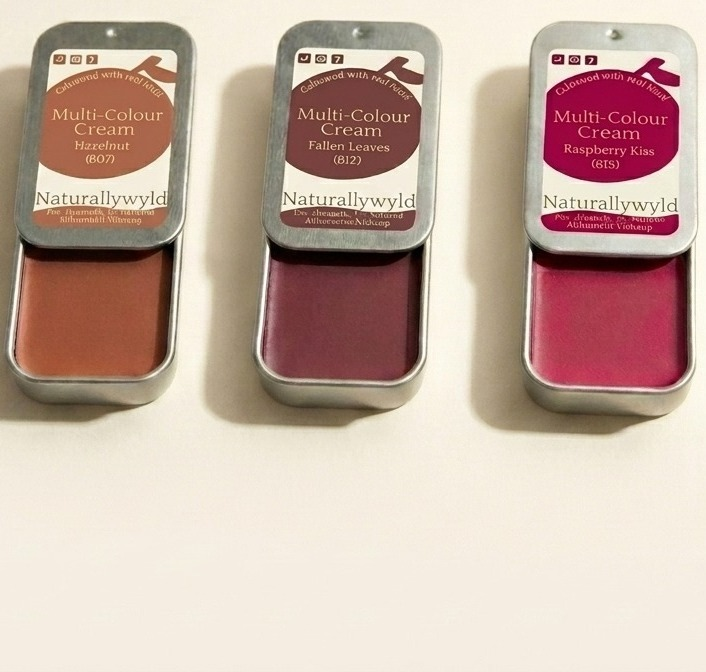
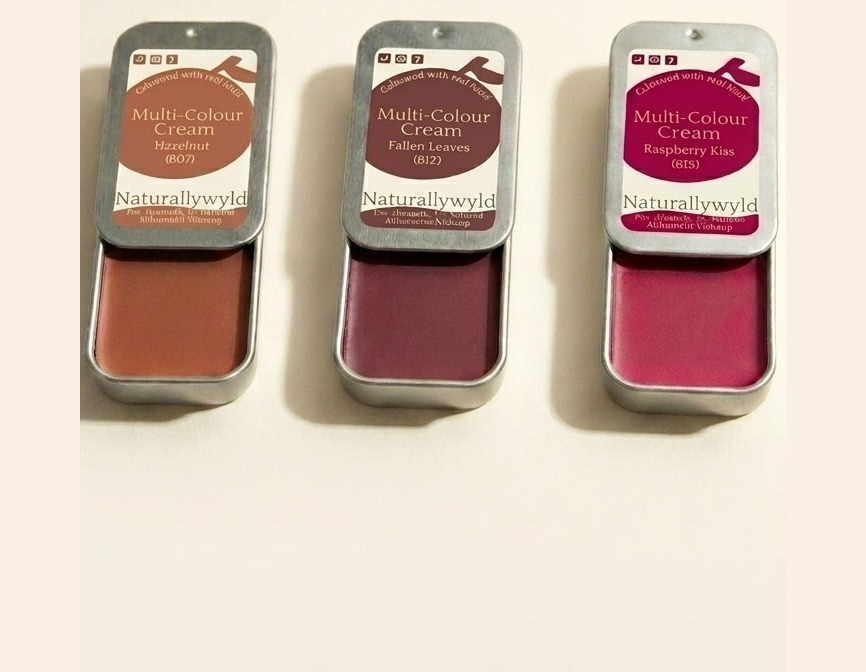
Add cream side padding to hero JPG — fixes left tin clip + right tin clip

diff --git a/index.html b/index.html
@@ -3525,7 +3525,7 @@ html,body,div,span,applet,object,iframe,h1,h2,h3,h4,h5,h6,blockquote,pre,abbr,ac
   </div>
   <p class="lp6-clear-line2">Use on <b>lips, cheeks &amp; eyes</b>. Coloured with real fruit — no plastic, no toxins.</p>
   <p class="lp6-clear-line3"><b>$30 + free shipping</b> — worth $90.</p>
-</div></div></div></div> <div class="ecom-block ecom-core core__block elmspace ecom-nb9zizu2kol"><div class="ecom-element ecom-icon ecom-flex"><a class="ecom-icon--container ecom-in_flex" href="star"><svg xmlns="http://www.w3.org/2000/svg" viewBox="0 0 32 32" fill="currentColor"><path d="M 30.335938 12.546875 L 20.164063 11.472656 L 16 2.132813 L 11.835938 11.472656 L 1.664063 12.546875 L 9.261719 19.394531 L 7.140625 29.398438 L 16 24.289063 L 24.859375 29.398438 L 22.738281 19.394531 Z"></path></svg></a></div></div> <div class="ecom-block ecom-core core__block elmspace ecom-4j8ivoprcol"><div class="ecom-element ecom-icon ecom-flex"><a class="ecom-icon--container ecom-in_flex" href="star"><svg xmlns="http://www.w3.org/2000/svg" viewBox="0 0 32 32" fill="currentColor"><path d="M 30.335938 12.546875 L 20.164063 11.472656 L 16 2.132813 L 11.835938 11.472656 L 1.664063 12.546875 L 9.261719 19.394531 L 7.140625 29.398438 L 16 24.289063 L 24.859375 29.398438 L 22.738281 19.394531 Z"></path></svg></a></div></div> <div class="ecom-block ecom-core core__block elmspace ecom-1uy6wgoj6d3"><div class="ecom-element ecom-icon ecom-flex"><a class="ecom-icon--container ecom-in_flex" href="star"><svg xmlns="http://www.w3.org/2000/svg" viewBox="0 0 32 32" fill="currentColor"><path d="M 30.335938 12.546875 L 20.164063 11.472656 L 16 2.132813 L 11.835938 11.472656 L 1.664063 12.546875 L 9.261719 19.394531 L 7.140625 29.398438 L 16 24.289063 L 24.859375 29.398438 L 22.738281 19.394531 Z"></path></svg></a></div></div> <div class="ecom-block ecom-core core__block elmspace ecom-mh753qn29a"><div class="ecom-element ecom-icon ecom-flex"><a class="ecom-icon--container ecom-in_flex" href="star"><svg xmlns="http://www.w3.org/2000/svg" viewBox="0 0 32 32" fill="currentColor"><path d="M 30.335938 12.546875 L 20.164063 11.472656 L 16 2.132813 L 11.835938 11.472656 L 1.664063 12.546875 L 9.261719 19.394531 L 7.140625 29.398438 L 16 24.289063 L 24.859375 29.398438 L 22.738281 19.394531 Z"></path></svg></a></div></div> <div class="ecom-block ecom-core core__block elmspace ecom-mknvs2akmic"><div class="ecom-element ecom-icon ecom-flex"><a class="ecom-icon--container ecom-in_flex" href="star"><svg xmlns="http://www.w3.org/2000/svg" viewBox="0 0 32 32" fill="currentColor"><path d="M 30.335938 12.546875 L 20.164063 11.472656 L 16 2.132813 L 11.835938 11.472656 L 1.664063 12.546875 L 9.261719 19.394531 L 7.140625 29.398438 L 16 24.289063 L 24.859375 29.398438 L 22.738281 19.394531 Z"></path></svg></a></div></div> <div class="ecom-block ecom-core core__block ecom-c27amw4lv4"><div class="ecom__element ecom-element element__text ecom-type-deffault"><div class="text-content ecom-html has-drop-cap-view-framed"><span style="color: rgb(0, 0, 0); font-family: system-ui, -apple-system, &quot;Segoe UI&quot;, Roboto, Helvetica, Arial, sans-serif, &quot;Apple Color Emoji&quot;, &quot;Segoe UI Emoji&quot;; font-size: 14px; letter-spacing: normal;">Over 436 Five-Star Reviews!</span></div></div></div> <div class="ecom-block ecom-core core__block ecom-h2wht9yvv7l"><div class="ecom__element ecom-element-button ecom-button-default"><a class="ecom__element--button ecom-flex ecom-fl_center ecom-al_center" href="https://naturallywyld.ca/cart/46591897567489:1?checkout"><span class="ecom__element--button-icon-text">Try our tester pack now</span><span class="ecom-button-icon ecom__element--button-icon"><svg xmlns="http://www.w3.org/2000/svg" viewBox="0 0 32 32" fill="currentColor"><path d="M 12.96875 4.28125 L 11.53125 5.71875 L 21.8125 16 L 11.53125 26.28125 L 12.96875 27.71875 L 23.96875 16.71875 L 24.65625 16 L 23.96875 15.28125 Z"></path></svg></span></a></div></div> <div class="ecom-block ecom-core core__block ecom-9wsj04gi9a6"><div class="ecom__element ecom-element element__text ecom-type-deffault"><div class="text-content ecom-html has-drop-cap-view-framed">⬆ Click here to get yours ⬆&nbsp;</div></div></div> </div></div></div></div> <div class="ecom-column ecom-core core__column--last ecom-7ggm6hhfod"><div class="core__column--wrapper" id="ecom-7ggm6hhfod"><div class="ecom-column__overlay"><div class="ecom-overlay"></div></div><div class="core__blocks" index="1"><div class="core__blocks--body"><div class="ecom-block ecom-core core__block elmspace ecom-o4t6ai3zw1o"><div class="ecom-row ecom-core core__block ecom-9bw6bg7zmir" data-id="ecom-9bw6bg7zmir" style="z-index: inherit;"><div class="core__row--columns"><div class="ecom-column ecom-core core__column--first core__column--last ecom-w6fb2h3x14j"><div class="core__column--wrapper" id="ecom-w6fb2h3x14j"><div class="ecom-column__overlay"><div class="ecom-overlay"></div></div><div class="core__blocks" index="0"><div class="core__blocks--body"><div class="ecom-block ecom-core core__block elmspace ecom-oit8fygid0n hide-on-desktop hide-on-tablet"><div class="ecom__element element__heading ecom-element ecom-html ecom-type-deffault"><h1 class="ecom__heading ecom-db"><div>Everything You Wanted in Natural Makeup—Finally Done Right.</div></h1></div></div> <div class="lp6-cursive-headline">"It's the best deal ever"<span class="lp6-hearts">💕💕</span></div><div class="ecom-block ecom-core core__block ecom-djz4481vay"><div class="ecom-element ecom-base-image"><figure><div class="ecom-container-image ecom-image-align"><div class="ecom-image-content-position ecom-image-default ecom-base-image-container-overlay" style=""><picture class="ecom-image-picture"><source media="(max-width: 767px)" srcset="hero-photoreal.jpg?v=12"><img class="" loading="lazy" fetchpriority="low" src="hero-photoreal.jpg?v=12" srcset="hero-photoreal.jpg?v=12 640w, hero-photoreal.jpg?v=12&amp;width=600&amp;crop=center 600w" sizes="(max-width: 600px) 600px, 640px" alt="Multi_colour_cream_bundle_Tester_pack_landing_page_348a39d0-6d02-4bd0-a25a-a591a6f6b55a" width="640" height="640"></picture></div></div></figure></div><div class="lp6-on-image-overlay"><span class="lp6-on-image-overlay-pill">$90 VALUE · PLUS FREE SHIPPING</span></div><div class="lp6-price-block-overlay">
+</div></div></div></div> <div class="ecom-block ecom-core core__block elmspace ecom-nb9zizu2kol"><div class="ecom-element ecom-icon ecom-flex"><a class="ecom-icon--container ecom-in_flex" href="star"><svg xmlns="http://www.w3.org/2000/svg" viewBox="0 0 32 32" fill="currentColor"><path d="M 30.335938 12.546875 L 20.164063 11.472656 L 16 2.132813 L 11.835938 11.472656 L 1.664063 12.546875 L 9.261719 19.394531 L 7.140625 29.398438 L 16 24.289063 L 24.859375 29.398438 L 22.738281 19.394531 Z"></path></svg></a></div></div> <div class="ecom-block ecom-core core__block elmspace ecom-4j8ivoprcol"><div class="ecom-element ecom-icon ecom-flex"><a class="ecom-icon--container ecom-in_flex" href="star"><svg xmlns="http://www.w3.org/2000/svg" viewBox="0 0 32 32" fill="currentColor"><path d="M 30.335938 12.546875 L 20.164063 11.472656 L 16 2.132813 L 11.835938 11.472656 L 1.664063 12.546875 L 9.261719 19.394531 L 7.140625 29.398438 L 16 24.289063 L 24.859375 29.398438 L 22.738281 19.394531 Z"></path></svg></a></div></div> <div class="ecom-block ecom-core core__block elmspace ecom-1uy6wgoj6d3"><div class="ecom-element ecom-icon ecom-flex"><a class="ecom-icon--container ecom-in_flex" href="star"><svg xmlns="http://www.w3.org/2000/svg" viewBox="0 0 32 32" fill="currentColor"><path d="M 30.335938 12.546875 L 20.164063 11.472656 L 16 2.132813 L 11.835938 11.472656 L 1.664063 12.546875 L 9.261719 19.394531 L 7.140625 29.398438 L 16 24.289063 L 24.859375 29.398438 L 22.738281 19.394531 Z"></path></svg></a></div></div> <div class="ecom-block ecom-core core__block elmspace ecom-mh753qn29a"><div class="ecom-element ecom-icon ecom-flex"><a class="ecom-icon--container ecom-in_flex" href="star"><svg xmlns="http://www.w3.org/2000/svg" viewBox="0 0 32 32" fill="currentColor"><path d="M 30.335938 12.546875 L 20.164063 11.472656 L 16 2.132813 L 11.835938 11.472656 L 1.664063 12.546875 L 9.261719 19.394531 L 7.140625 29.398438 L 16 24.289063 L 24.859375 29.398438 L 22.738281 19.394531 Z"></path></svg></a></div></div> <div class="ecom-block ecom-core core__block elmspace ecom-mknvs2akmic"><div class="ecom-element ecom-icon ecom-flex"><a class="ecom-icon--container ecom-in_flex" href="star"><svg xmlns="http://www.w3.org/2000/svg" viewBox="0 0 32 32" fill="currentColor"><path d="M 30.335938 12.546875 L 20.164063 11.472656 L 16 2.132813 L 11.835938 11.472656 L 1.664063 12.546875 L 9.261719 19.394531 L 7.140625 29.398438 L 16 24.289063 L 24.859375 29.398438 L 22.738281 19.394531 Z"></path></svg></a></div></div> <div class="ecom-block ecom-core core__block ecom-c27amw4lv4"><div class="ecom__element ecom-element element__text ecom-type-deffault"><div class="text-content ecom-html has-drop-cap-view-framed"><span style="color: rgb(0, 0, 0); font-family: system-ui, -apple-system, &quot;Segoe UI&quot;, Roboto, Helvetica, Arial, sans-serif, &quot;Apple Color Emoji&quot;, &quot;Segoe UI Emoji&quot;; font-size: 14px; letter-spacing: normal;">Over 436 Five-Star Reviews!</span></div></div></div> <div class="ecom-block ecom-core core__block ecom-h2wht9yvv7l"><div class="ecom__element ecom-element-button ecom-button-default"><a class="ecom__element--button ecom-flex ecom-fl_center ecom-al_center" href="https://naturallywyld.ca/cart/46591897567489:1?checkout"><span class="ecom__element--button-icon-text">Try our tester pack now</span><span class="ecom-button-icon ecom__element--button-icon"><svg xmlns="http://www.w3.org/2000/svg" viewBox="0 0 32 32" fill="currentColor"><path d="M 12.96875 4.28125 L 11.53125 5.71875 L 21.8125 16 L 11.53125 26.28125 L 12.96875 27.71875 L 23.96875 16.71875 L 24.65625 16 L 23.96875 15.28125 Z"></path></svg></span></a></div></div> <div class="ecom-block ecom-core core__block ecom-9wsj04gi9a6"><div class="ecom__element ecom-element element__text ecom-type-deffault"><div class="text-content ecom-html has-drop-cap-view-framed">⬆ Click here to get yours ⬆&nbsp;</div></div></div> </div></div></div></div> <div class="ecom-column ecom-core core__column--last ecom-7ggm6hhfod"><div class="core__column--wrapper" id="ecom-7ggm6hhfod"><div class="ecom-column__overlay"><div class="ecom-overlay"></div></div><div class="core__blocks" index="1"><div class="core__blocks--body"><div class="ecom-block ecom-core core__block elmspace ecom-o4t6ai3zw1o"><div class="ecom-row ecom-core core__block ecom-9bw6bg7zmir" data-id="ecom-9bw6bg7zmir" style="z-index: inherit;"><div class="core__row--columns"><div class="ecom-column ecom-core core__column--first core__column--last ecom-w6fb2h3x14j"><div class="core__column--wrapper" id="ecom-w6fb2h3x14j"><div class="ecom-column__overlay"><div class="ecom-overlay"></div></div><div class="core__blocks" index="0"><div class="core__blocks--body"><div class="ecom-block ecom-core core__block elmspace ecom-oit8fygid0n hide-on-desktop hide-on-tablet"><div class="ecom__element element__heading ecom-element ecom-html ecom-type-deffault"><h1 class="ecom__heading ecom-db"><div>Everything You Wanted in Natural Makeup—Finally Done Right.</div></h1></div></div> <div class="lp6-cursive-headline">"It's the best deal ever"<span class="lp6-hearts">💕💕</span></div><div class="ecom-block ecom-core core__block ecom-djz4481vay"><div class="ecom-element ecom-base-image"><figure><div class="ecom-container-image ecom-image-align"><div class="ecom-image-content-position ecom-image-default ecom-base-image-container-overlay" style=""><picture class="ecom-image-picture"><source media="(max-width: 767px)" srcset="hero-photoreal.jpg?v=13"><img class="" loading="lazy" fetchpriority="low" src="hero-photoreal.jpg?v=13" srcset="hero-photoreal.jpg?v=13 640w, hero-photoreal.jpg?v=13&amp;width=600&amp;crop=center 600w" sizes="(max-width: 600px) 600px, 640px" alt="Multi_colour_cream_bundle_Tester_pack_landing_page_348a39d0-6d02-4bd0-a25a-a591a6f6b55a" width="640" height="640"></picture></div></div></figure></div><div class="lp6-on-image-overlay"><span class="lp6-on-image-overlay-pill">$90 VALUE · PLUS FREE SHIPPING</span></div><div class="lp6-price-block-overlay">
   <span class="lp6-pb-now">$30</span>
   <span class="lp6-pb-was">$90 value</span>
   <span class="lp6-pb-save">SAVE $60</span>